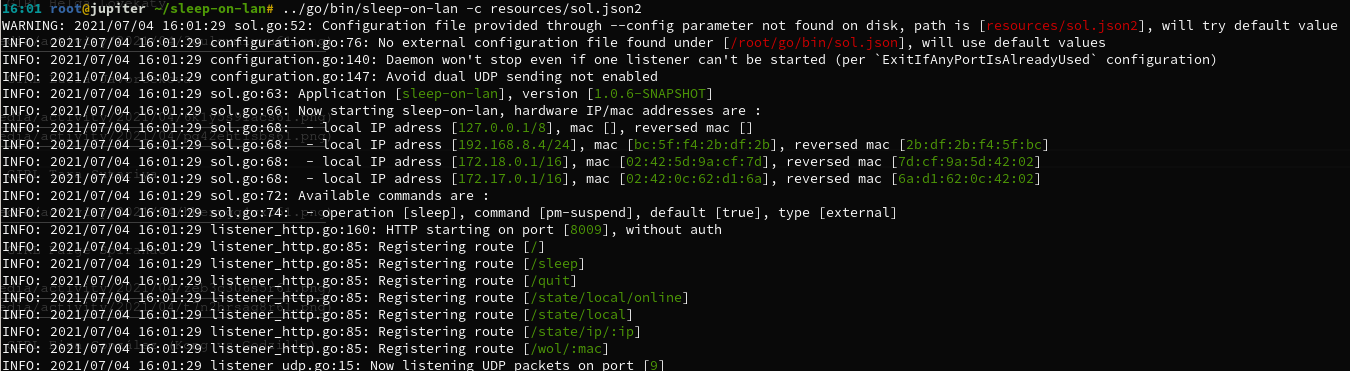
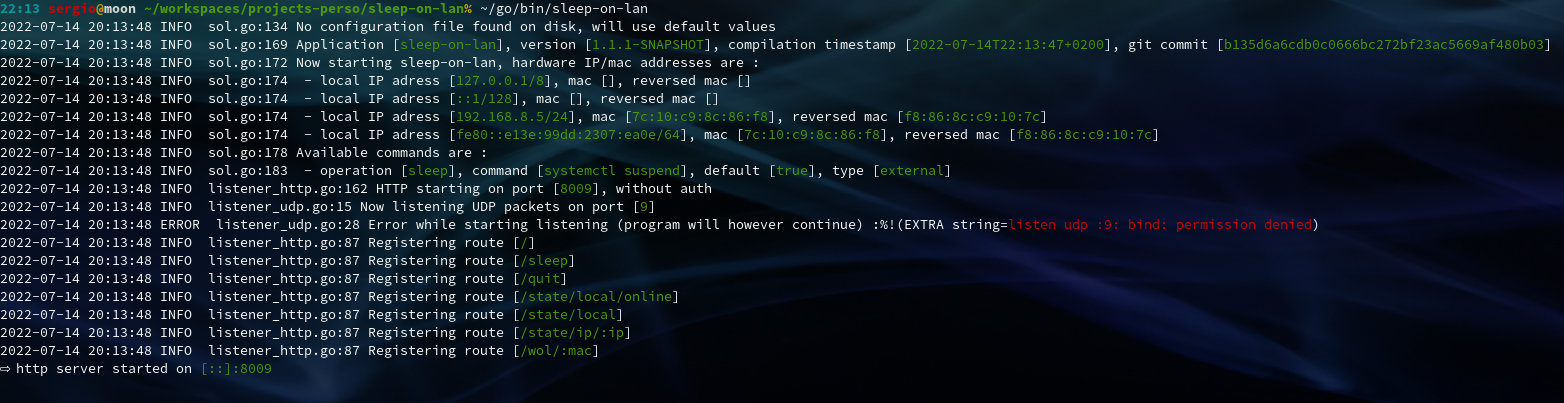
Extra default possible configuration filenames and better logging #45 + new --verbose parameter #44

diff --git a/src/sol.go b/src/sol.go
@@ -17,6 +17,7 @@ import (
 var configuration = Configuration{}
 var configurationFileName = "sol.json"
 var configurationFileNameFromCommandLine string
+var verbose bool
 var subCommandGenerateConfiguration *flaggy.Subcommand
 var exit chan bool
 var colorer *color.Color
@@ -38,6 +39,8 @@ func init() {
 
 	// Init flag reader
 	flaggy.String(&configurationFileNameFromCommandLine, "c", "config", "Configuration file to use (optional, default is 'sol.json' next to the binary)")
+	flaggy.Bool(&verbose, "v", "verbose", "Force DEBUG log level (will override what may be defined in JSON configuration)")
+
 	flaggy.SetName("Sleep-On-LAN")
 	flaggy.SetDescription("Daemon allowing to send a linux or windows computer to sleep")
 	flaggy.DefaultParser.ShowHelpOnUnexpected = true
@@ -97,21 +100,40 @@ func executeCommandGenerateConfiguration() {
 	}
 }
 
+type PossibleConfigurationFilename struct {
+	Path    string
+	Comment string
+}
+
 func determineConfigurationFileName() string {
 	var fullConfigurationFileName string
 	dir, _ := filepath.Abs(filepath.Dir(os.Args[0]))
 
+	// List of all possibilities for configuration : first found one will be taken in account
+	var possibleConfigurationFileNames []PossibleConfigurationFilename
 	if configurationFileNameFromCommandLine != "" {
-		if _, err := os.Stat(configurationFileNameFromCommandLine); err == nil {
-			logger.Infof("Will use configuration file provided through --config parameter, path is [" + colorer.Green(configurationFileNameFromCommandLine) + "]")
-			fullConfigurationFileName = configurationFileNameFromCommandLine
-		} else {
-			logger.Warningf("Configuration file provided through --config parameter not found on disk, path is [" + colorer.Red(configurationFileNameFromCommandLine) + "], will try default value")
-			fullConfigurationFileName = dir + string(os.PathSeparator) + configurationFileName
-		}
-	} else {
-		fullConfigurationFileName = dir + string(os.PathSeparator) + configurationFileName
+		logger.Infof("Configuration filename provided through --config parameter [" + colorer.Green(configurationFileNameFromCommandLine) + "]")
+		possibleConfigurationFileNames = append(possibleConfigurationFileNames, PossibleConfigurationFilename{configurationFileNameFromCommandLine, "configuration filename provided through --config parameter"})
 	}
+	for _, extraPossibleConfigurationFileName := range RegisterPossibleConfigurationFileNames() {
+		possibleConfigurationFileNames = append(possibleConfigurationFileNames, extraPossibleConfigurationFileName)
+	}
+	possibleConfigurationFileNames = append(possibleConfigurationFileNames, PossibleConfigurationFilename{dir + string(os.PathSeparator) + configurationFileName, "configuration file stored alongisde SleepOnLan binary"}) // alongside binary
+
+	for _, possibleConfigurationFilename := range possibleConfigurationFileNames {
+		if _, err := os.Stat(possibleConfigurationFilename.Path); err == nil {
+			logger.Debugf("Will use configuration [" + colorer.Green(possibleConfigurationFilename.Path) + "] (" + possibleConfigurationFilename.Comment + ")")
+			fullConfigurationFileName = possibleConfigurationFilename.Path
+			break
+		} else {
+			logger.Debugf("Possible configuration file [" + colorer.Red(possibleConfigurationFilename.Path) + "] not found (" + possibleConfigurationFilename.Comment + ")")
+		}
+	}
+
+	if fullConfigurationFileName == "" {
+		logger.Infof("No configuration file found on disk, will use default values")
+	}
+
 	return fullConfigurationFileName
 }
 
@@ -134,6 +156,11 @@ func startDaemon() {
 	if err := configuration.Parse(); err != nil {
 		configurationOk = false
 		configurationError = err.Error()
+	}
+
+	// Yes this has to be done a second time, to override what may have been defined in JSON configuration
+	if verbose {
+		logger.SetLogLevel(loggo.DEBUG)
 	}
 
 	if !configurationOk {
@@ -177,6 +204,11 @@ func startDaemon() {
 }
 
 func main() {
+	// Pre-init logger (if --verbose is activated)
+	if verbose {
+		logger.SetLogLevel(loggo.DEBUG)
+	}
+
 	// Handling subcommands, if any
 	if subCommandGenerateConfiguration.Used {
 		executeCommandGenerateConfiguration()

diff --git a/src/listener_udp.go b/src/listener_udp.go
@@ -21,11 +21,11 @@ func ListenUDP(port int) {
 	sock, err := net.ListenUDP("udp", addr)
 	if err != nil {
 		if configuration.ExitIfAnyPortIsAlreadyUsed {
-			logger.Errorf("Error while starting listening (will exit, per configuration) :", err.Error())
+			logger.Errorf("Error while starting listening (will exit, per configuration) :", colorer.Red(err.Error()))
 			exit <- true
 			return
 		} else {
-			logger.Errorf("Error while starting listening (program will however continue) :", err.Error())
+			logger.Errorf("Error while starting listening (program will however continue) :", colorer.Red(err.Error()))
 		}
 	} else {
 		for {
@@ -34,14 +34,14 @@ func ListenUDP(port int) {
 				logger.Errorf("Error while reading :", err.Error())
 			}
 			extractedMacAddress, _ := extractMacAddress(rlen, buf)
-			logger.Infof("Received a MAC address from IP [" + remote.String() + "], extracted mac [" + extractedMacAddress.String() + "]")
+			logger.Infof("Received a MAC address from IP [" + colorer.Green(remote.String()) + "], extracted mac [" + colorer.Green(extractedMacAddress.String()) + "]")
 			if matchAddress(extractedMacAddress) {
 				logger.Infof("(reversed) received MAC address match a local address")
 				if configuration.AvoidDualUDPSending.AvoidDualUDPSendingActive {
 					// Specific behavior : let's try to avoid dual UDP sending
 					if !isActionInProgress {
 						isActionInProgress = true
-						logger.Infof("Extra small delay before going to sleep (to avoid dual UDP sending), during [" + configuration.AvoidDualUDPSending.AvoidDualUDPSendingDelay + "]")
+						logger.Infof("Extra small delay before going to sleep (to avoid dual UDP sending), during [" + colorer.Green(configuration.AvoidDualUDPSending.AvoidDualUDPSendingDelay) + "]")
 						go doActionWithDelay()
 					} else {
 						logger.Infof("Another command is already awaiting, rejecting this one due to dual UDP sending avoidance being activated")

diff --git a/src/configuration.go b/src/configuration.go
@@ -66,19 +66,20 @@ func (conf *Configuration) InitDefaultConfiguration() {
 }
 
 func (conf *Configuration) Load(configurationFileName string) error {
-	if _, err := os.Stat(configurationFileName); err == nil {
-		logger.Infof("Configuration file found under [" + colorer.Green(configurationFileName) + "], now reading content")
-		file, _ := os.Open(configurationFileName)
-		decoder := json.NewDecoder(file)
-		decoder.DisallowUnknownFields()
-		err := decoder.Decode(&conf)
-		if err != nil {
-			return err
+	if configurationFileName != "" {
+		if _, err := os.Stat(configurationFileName); err == nil {
+			logger.Infof("Configuration file found under [" + colorer.Green(configurationFileName) + "], now reading content")
+			file, _ := os.Open(configurationFileName)
+			decoder := json.NewDecoder(file)
+			decoder.DisallowUnknownFields()
+			err := decoder.Decode(&conf)
+			if err != nil {
+				return err
+			}
+		} else {
+			logger.Infof("No external configuration file found under [" + colorer.Red(configurationFileName) + "], will use default values")
 		}
-	} else {
-		logger.Infof("No external configuration file found under [" + colorer.Red(configurationFileName) + "], will use default values")
 	}
-
 	return nil
 }
 

diff --git a/src/sleeper_windows.go b/src/sleeper_windows.go
@@ -14,11 +14,16 @@ const (
 	DEFAULT_COMMAND_SHUTDOWN  = "shutdown"
 )
 
-func RegisterDefaultCommand() {
+func (conf *Configuration) RegisterDefaultCommand() {
 	defaultSleepCommand := CommandConfiguration{Operation: DEFAULT_COMMAND_SLEEP, CommandType: COMMAND_TYPE_INTERNAL_DLL, IsDefault: true}
 	defaultHibernateCommand := CommandConfiguration{Operation: DEFAULT_COMMAND_HIBERNATE, CommandType: COMMAND_TYPE_INTERNAL_DLL, IsDefault: false}
 	defaultShutdownCommand := CommandConfiguration{Operation: DEFAULT_COMMAND_SHUTDOWN, CommandType: COMMAND_TYPE_INTERNAL_DLL, IsDefault: false}
 	configuration.Commands = []CommandConfiguration{defaultSleepCommand, defaultHibernateCommand, defaultShutdownCommand}
+}
+
+func RegisterPossibleConfigurationFileNames() []PossibleConfigurationFilename {
+	var possibleConfigurationFileNames []PossibleConfigurationFilename
+	return possibleConfigurationFileNames
 }
 
 func ExecuteCommand(Command CommandConfiguration) {

diff --git a/src/sleeper_linux.go b/src/sleeper_linux.go
@@ -5,6 +5,13 @@ func (conf *Configuration) RegisterDefaultCommand() {
 	conf.Commands = []CommandConfiguration{defaultCommand}
 }
 
+func RegisterPossibleConfigurationFileNames() []PossibleConfigurationFilename {
+	var possibleConfigurationFileNames []PossibleConfigurationFilename
+	possibleConfigurationFileNames = append(possibleConfigurationFileNames, PossibleConfigurationFilename{"/etc/sol.json", "default configuration filename under /etc/ (linux)"})
+	possibleConfigurationFileNames = append(possibleConfigurationFileNames, PossibleConfigurationFilename{"/etc/sleep-on-lan.json", "default configuration filename under /etc/ (linux)"})
+	return possibleConfigurationFileNames
+}
+
 func ExecuteCommand(Command CommandConfiguration) {
 	if Command.CommandType == COMMAND_TYPE_EXTERNAL {
 		logger.Infof("Executing operation [" + Command.Operation + "], type [" + Command.Command + "], command [" + Command.Command + "]")

diff --git a/README.md b/README.md
@@ -39,9 +39,13 @@ http://127.0.0.1:8009/wol/c4:d9:87:7a:78:35          // sends a wake-on-lan magi
 
 ## Configuration
 
-An optional configuration file may be used.
+An optional configuration file may be used. See [configuration examples](resources/configuration/default/). Order of priority for configuration filenames are : 
 
-Taken automatically in account if named `sol.json` and located in the same folder than the Sleep-On-Lan binary. Or can be manually configured at launch time with the `--config` parameter. See [configuration examples](resources/configuration/default/).
+1. The filename manually configured inside the command line with the `--config` parameter (if available on disk)
+2. (linux only) A filename under `/etc/sol.json` (if available on disk)
+3. (linux only) A filename under `/etc/sleep-on-lan.json` (if available on disk)
+4. A filename alongside the `sol` binary (i.e., in the same folder) and named `sol.json` (if available on disk)
+5. Otherwise, default values will be taken in account
 
 Content of configuration is as follow (everything is optional / below is the whole structure) :
 
